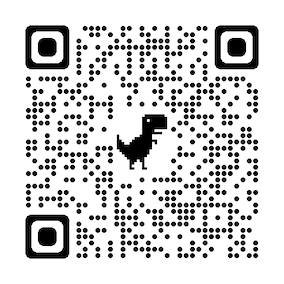
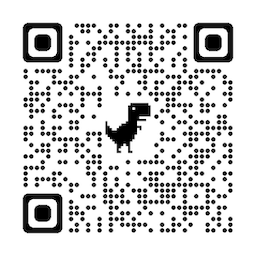
resize readme image

diff --git a/README.md b/README.md
@@ -4,17 +4,17 @@
 
 ## Play on 📱
 
-<img src="https://github.com/m-soro/Project_1/blob/main/image/demo-mobile.gif?raw=true" width="340" height="587">
+<img src="https://github.com/m-soro/Project_1/blob/main/image/demo-mobile.gif?raw=true" width="300" height="517">
 
 ## Play on 💻
 
-<img src="https://github.com/m-soro/Project_1/blob/main/image/demo-big-screen.gif?raw=true" width="480" height="399">
+<img src="https://github.com/m-soro/Project_1/blob/main/image/demo-big-screen.gif?raw=true" width="360" height="299">
 
 **Save or bookmark this link https://m-soro.github.io/Project_1/**
 
 **or share with QR code**
 
-<img src="https://github.com/m-soro/Project_1/blob/main/image/msoro.pong!.png?raw=true" width="284" height="284">
+<img src="https://github.com/m-soro/Project_1/blob/main/image/msoro.pong!.png?raw=true" width="256" height="256">
 
 **Keyboard Controls:**
 
